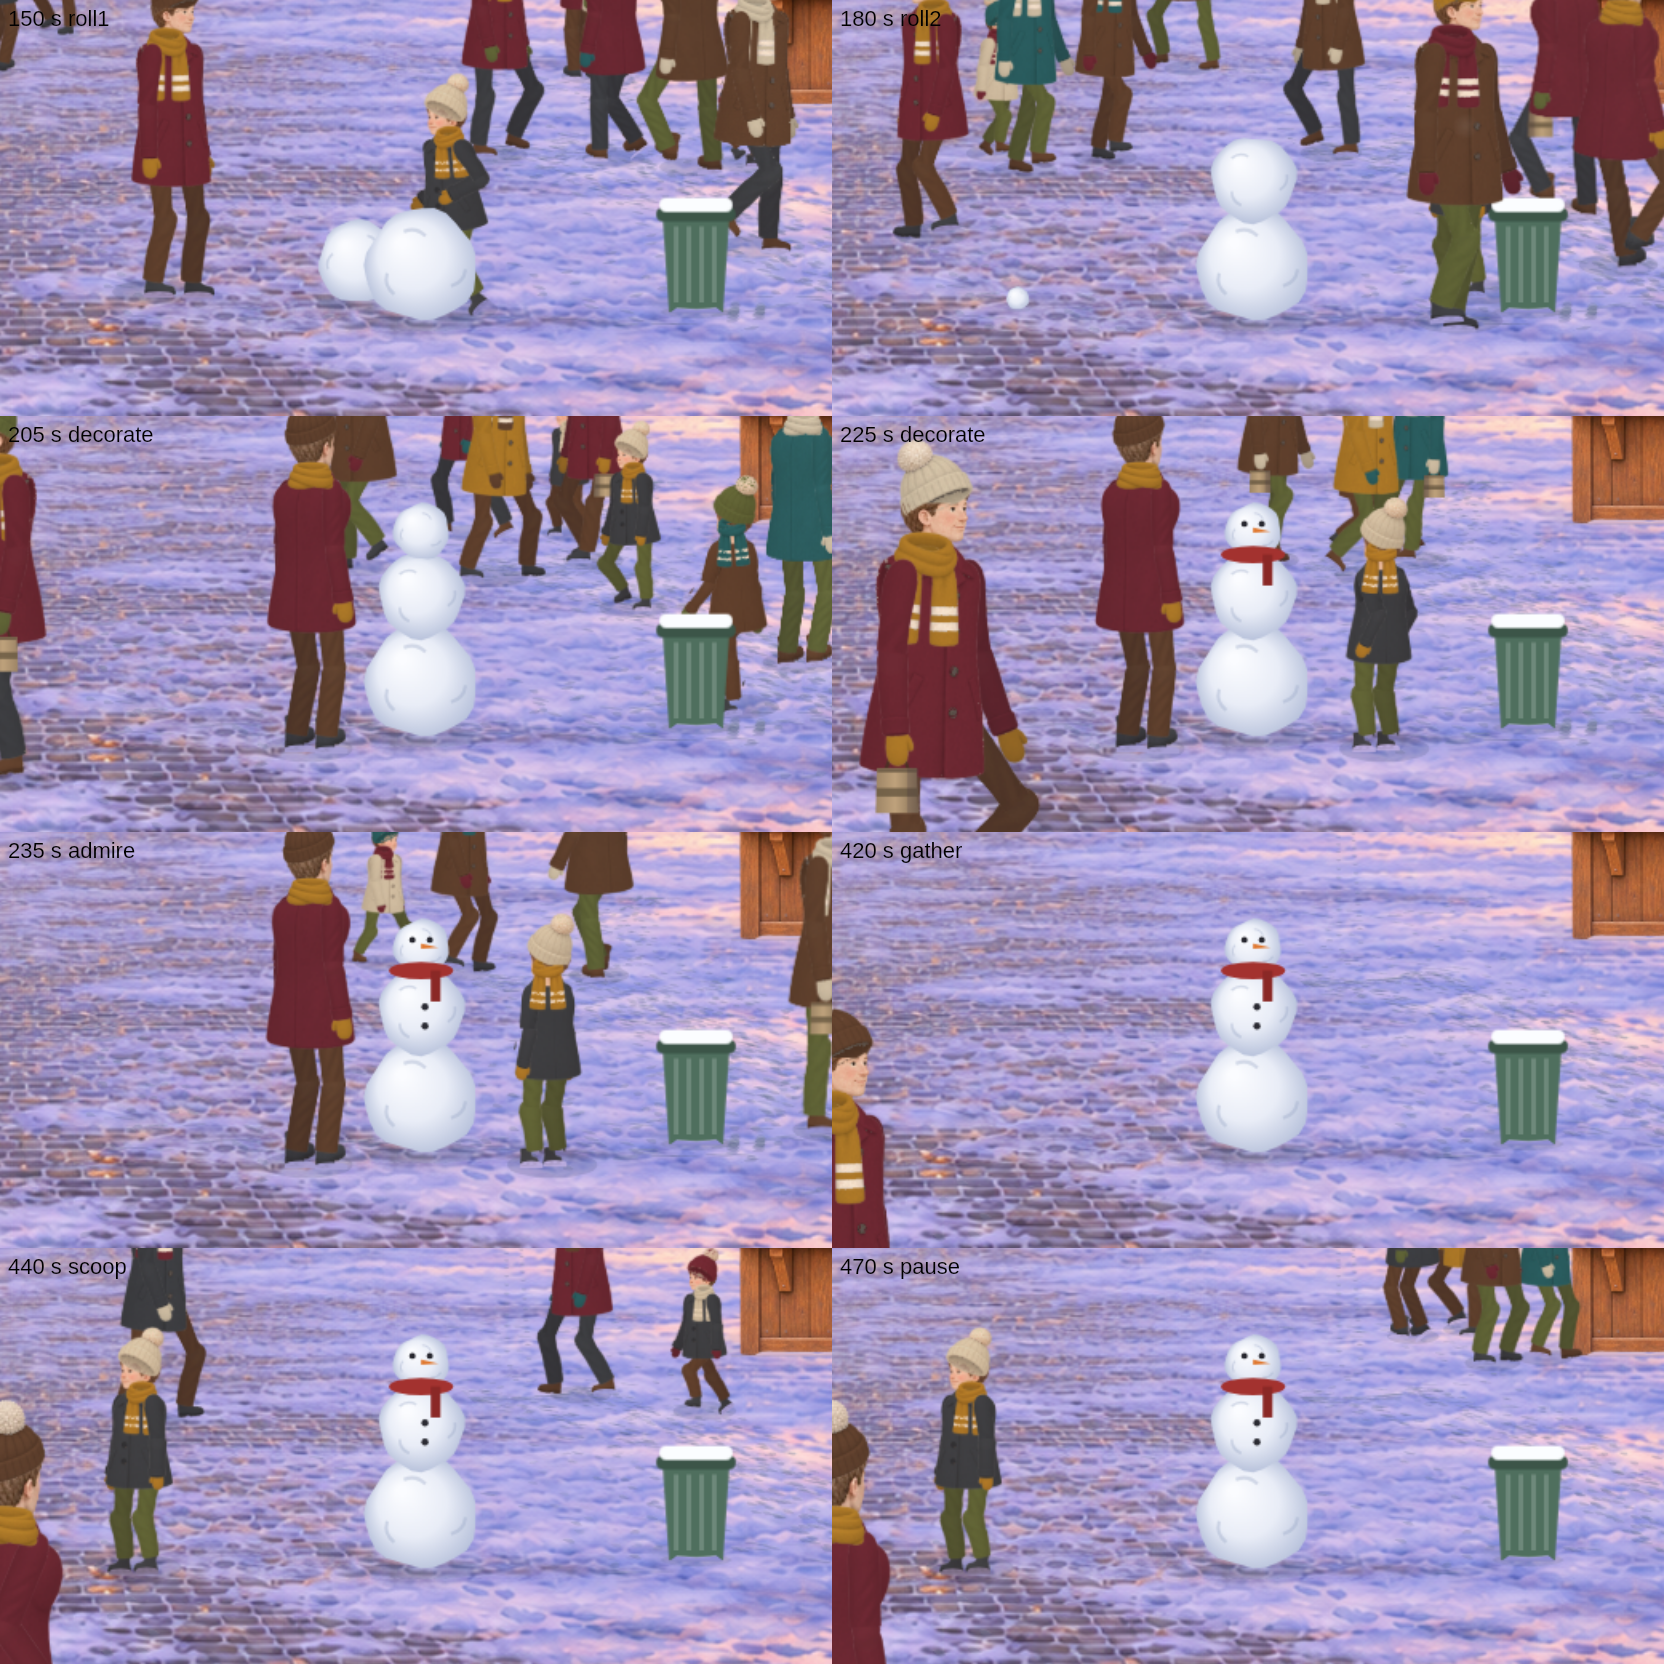
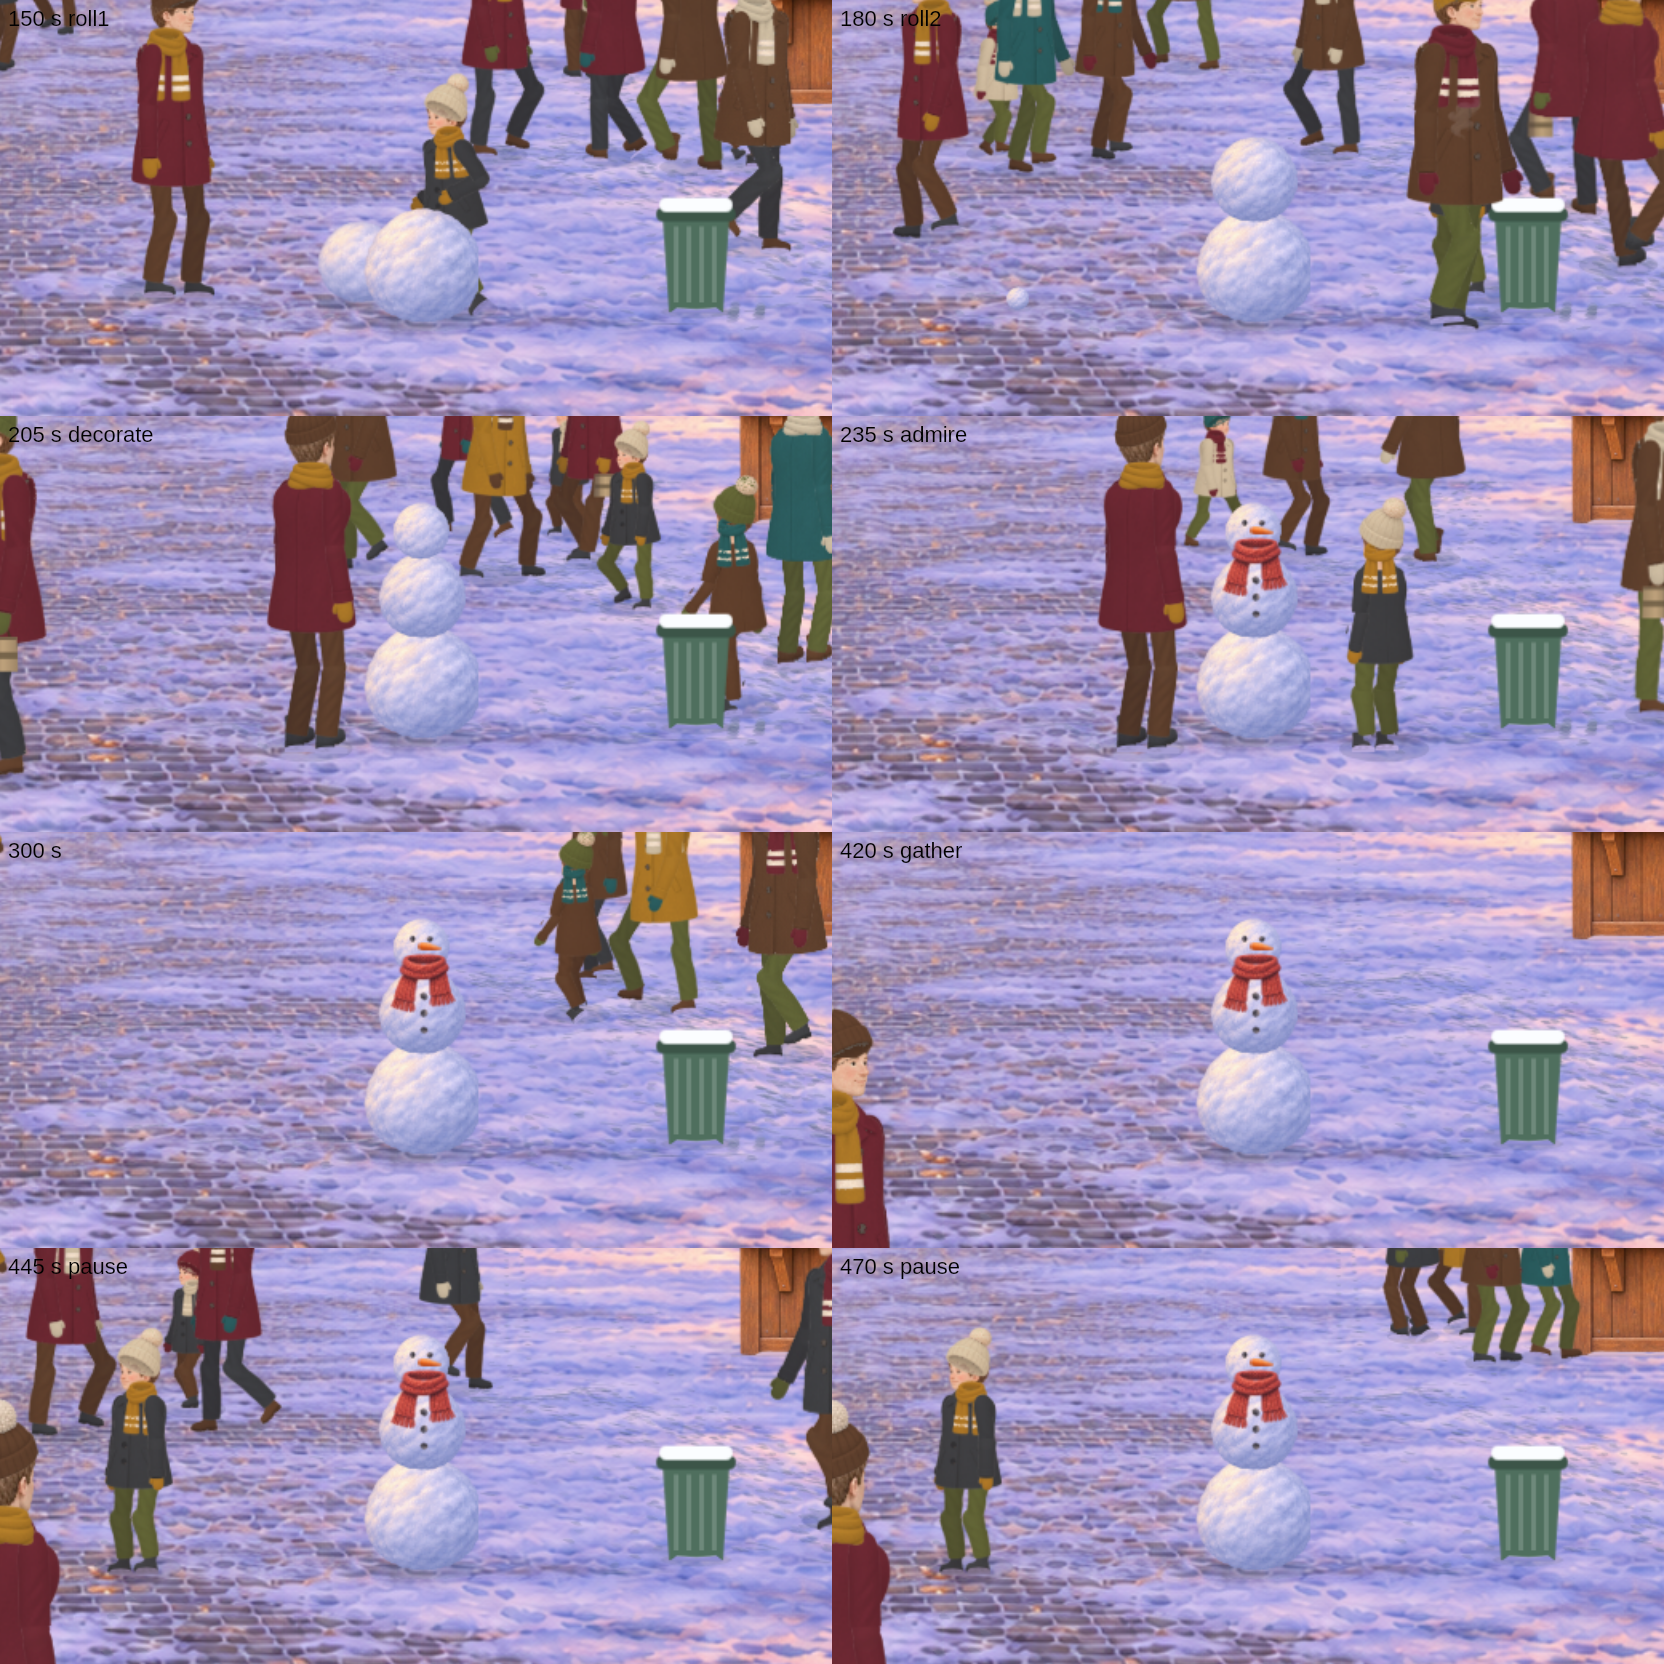
Liberec: malované sprity sněhuláka, koulí a páry
- vyčištěné sprity (jen hlavní objekt; pára bez poloprůhledného pozadí)
  v grafika/ziva-pozadi/sprites_clean
- renderer používá assety sprite_* (koule, spodní/prostřední koule, hlava,
  uhlíky, mrkev, šála, 6 obláčků páry); bez nich zůstává kresba kódem

Claude-Session: https://claude.ai/code/session_01RUV9wyQ56oLHxGhBhsFU8U

diff --git a/src/core/render/sceneRenderer.ts b/src/core/render/sceneRenderer.ts
@@ -356,6 +356,7 @@ export function drawScene(ctx: Ctx, project: ProjectFile, sim: Simulation | null
   const worldObjs = visible.filter(({ o }) => o.layer === 'world').map(({ o }) => o);
   drawGroundIntegration(ctx, project, worldObjs, assets, opts.time);
   litCtx = { objects: worldObjs.filter((o) => o.integration), assets, t: opts.time };
+  spriteSrc = images;
 
   // Světová vrstva: řazení podle bodu kontaktu se zemí (+ ruční úprava pořadí).
   type Item = { key: number; tie: number; draw: () => void };
@@ -413,7 +414,17 @@ export function drawScene(ctx: Ctx, project: ProjectFile, sim: Simulation | null
  * Koule sněhu (malovaná): mírně nepravidelný obrys, chladný stín vpravo dole, světlejší horní
  * plocha, pár stop válení (otáčí se podle dráhy), úzký kontaktní stín na zemi.
  */
-function drawSnowBall(ctx: Ctx, cam: ReturnType<typeof cameraFor>, X: number, Z: number, H: number, r: number, rot: number, seed: number, shadow: boolean) {
+/** Malované sprity z projektu (assety s id `sprite_*`, např. ze sady „Živá pozadí“); chybí = kresba kódem. */
+let spriteSrc: AssetImages | null = null;
+const sprite = (name: string) => (spriteSrc?.get(`sprite_${name}`) ?? null) as (CanvasImageSource & { width: number; height: number }) | null;
+/** Sprite vycentrovaný na bod, s průměrem `d` px (podle šířky), volitelně otočený. */
+function drawSpriteAt(ctx: Ctx, img: CanvasImageSource & { width: number; height: number }, x: number, y: number, d: number, rot = 0, flip = false) {
+  const w = d, h = (d * img.height) / img.width;
+  ctx.save(); ctx.translate(x, y); if (rot) ctx.rotate(rot); if (flip) ctx.scale(-1, 1);
+  ctx.drawImage(img, -w / 2, -h / 2, w, h); ctx.restore();
+}
+
+function drawSnowBall(ctx: Ctx, cam: ReturnType<typeof cameraFor>, X: number, Z: number, H: number, r: number, rot: number, seed: number, shadow: boolean, spriteName = 'snowball') {
   const c = toScreen(cam, { X, Z }, H), R = (r * cam.f) / Math.max(1e-3, Z);
   if (R < 0.4) return;
   if (shadow) {
@@ -421,6 +432,8 @@ function drawSnowBall(ctx: Ctx, cam: ReturnType<typeof cameraFor>, X: number, Z:
     ctx.save(); ctx.fillStyle = 'rgba(98,113,150,0.22)';
     ctx.beginPath(); ctx.ellipse(g0.x + R * 0.1, g0.y, R * 1.05, Math.max(0.8, R * 0.18), 0, 0, Math.PI * 2); ctx.fill(); ctx.restore();
   }
+  const img = sprite(spriteName) ?? sprite('snowball');
+  if (img) { drawSpriteAt(ctx, img, c.x, c.y, 2.06 * R, rot); return; } // malovaná koule (okraj sprite je měkký)
   ctx.save();
   ctx.beginPath();
   for (let i = 0; i <= 28; i++) {
@@ -448,10 +461,12 @@ function drawSnowman(ctx: Ctx, cam: ReturnType<typeof cameraFor>, o: NonNullable
   const P = toWorld(cam, { x: o.x, y: o.y });
   const [r0, r1, r2] = o.radii;
   const h0 = r0, h1 = 2 * r0 * 0.92 + r1 * 0.92, h2 = 2 * r0 * 0.92 + 2 * r1 * 0.92 + r2 * 0.9;
-  drawSnowBall(ctx, cam, P.X, P.Z, h0, r0, 0.4, o.seed % 97, true);
-  if (r1) drawSnowBall(ctx, cam, P.X, P.Z - 0.01, h1, r1, 1.3, (o.seed % 97) + 3, false);
+  drawSnowBall(ctx, cam, P.X, P.Z, h0, r0, 0, o.seed % 97, true, 'snowman_base');
+  if (r1) drawSnowBall(ctx, cam, P.X, P.Z - 0.01, h1, r1, 0, (o.seed % 97) + 3, false, 'snowman_middle');
   const px = (m: number) => (m * cam.f) / P.Z;
   const at = (H: number, dx = 0) => { const q = toScreen(cam, { X: P.X, Z: P.Z }, H); return { x: q.x + px(dx), y: q.y }; };
+  const coal = (k: number) => sprite(`coal_${k % 5}`);
+  if (coal(0) && sprite('snowman_head')) { drawSnowmanSprites(ctx, o, at, px, coal, h1, h2, r1, r2); return; }
   if (o.decorations.includes('buttons') && r1) {
     ctx.fillStyle = '#2b2b33';
     for (const k of [-0.35, 0.1]) { const q = at(h1 + r1 * k, 0.02); ctx.beginPath(); ctx.arc(q.x, q.y, Math.max(0.5, px(0.018)), 0, Math.PI * 2); ctx.fill(); }
@@ -474,6 +489,19 @@ function drawSnowman(ctx: Ctx, cam: ReturnType<typeof cameraFor>, o: NonNullable
   }
 }
 
+/** Sněhulák z malovaných spritů: hlava, uhlíky (oči, knoflíky), mrkev, pletená šála. */
+function drawSnowmanSprites(ctx: Ctx, o: NonNullable<SimState['runtimeObjects']>[number], at: (H: number, dx?: number) => { x: number; y: number }, px: (m: number) => number,
+  coal: (k: number) => (CanvasImageSource & { width: number; height: number }) | null, h1: number, h2: number, r1: number, r2: number) {
+  const dot = (H: number, dx: number, k: number, size: number) => { const q = at(H, dx); drawSpriteAt(ctx, coal(k)!, q.x, q.y, Math.max(1.2, px(size)), (k * 1.3) % 6.28); };
+  if (o.decorations.includes('buttons') && r1) for (const [i, kH] of [[0, 0.35], [1, -0.05], [2, -0.45]] as const) dot(h1 + r1 * kH, 0.015, i + o.seed, 0.04);
+  if (!r2) return;
+  const head = sprite('snowman_head')!, q0 = at(h2);
+  drawSpriteAt(ctx, head, q0.x, q0.y, 2.06 * px(r2));
+  if (o.decorations.includes('scarf') && sprite('scarf')) { const q = at(h2 - r2 * 0.95); drawSpriteAt(ctx, sprite('scarf')!, q.x + px(0.01), q.y + px(r2 * 0.22), px(r2 * 1.95)); }
+  if (o.decorations.includes('eyes')) { dot(h2 + r2 * 0.28, -0.045, o.seed + 3, 0.032); dot(h2 + r2 * 0.28, 0.045, o.seed + 4, 0.032); }
+  if (o.decorations.includes('nose') && sprite('carrot')) { const q = at(h2 + r2 * 0.02); const c = sprite('carrot')!; const w = px(0.12); ctx.drawImage(c, q.x - w * 0.12, q.y - (w * c.height) / c.width / 2, w, (w * c.height) / c.width); }
+}
+
 /** Pára a kouř: měkké průsvitné obláčky (malovaný dojem, bez ostrých okrajů). */
 function drawParticles(ctx: Ctx, project: ProjectFile, ps: NonNullable<Simulation['state']['particles']>, t: number) {
   const env = project.scene.environment!;
@@ -481,6 +509,14 @@ function drawParticles(ctx: Ctx, project: ProjectFile, ps: NonNullable<Simulatio
   for (const p of ps) {
     const q = particleAt(p, t, project.scene.snowfall.wind, project.seed, env.gusts);
     if (!q || q.a < 0.004) continue;
+    const st = p.kind !== 'snowPuff' ? sprite(`steam_${(p.seed % 6) + 1}`) : null;
+    if (st) {
+      // malovaný obláček páry: nízká celková průhlednost, pomalý růst (sprite nikdy nezesilovat)
+      ctx.globalAlpha = Math.min(0.55, q.a * (p.kind === 'smoke' ? 1.4 : 1.8));
+      drawSpriteAt(ctx, st, q.x, q.y - q.r * 0.6, q.r * 2.6, ((p.seed % 7) - 3) * 0.08);
+      ctx.globalAlpha = 1;
+      continue;
+    }
     const col = p.kind === 'smoke' ? '214,216,228' : '248,248,252';
     const g = ctx.createRadialGradient(q.x, q.y, 0, q.x, q.y, q.r);
     g.addColorStop(0, `rgba(${col},${q.a.toFixed(3)})`); g.addColorStop(0.6, `rgba(${col},${(q.a * 0.45).toFixed(3)})`); g.addColorStop(1, `rgba(${col},0)`);

diff --git a/scripts/generate-liberec-demo.ts b/scripts/generate-liberec-demo.ts
@@ -124,6 +124,12 @@ export async function generateLiberec(dir: string): Promise<ProjectFile> {
     }
     p.objects.push(so);
   }
+  // malované sprity sněhuláka, koulí a páry (renderer je najde podle id `sprite_*`)
+  for (const n of ['snowman_base', 'snowman_middle', 'snowman_head', 'snowball', 'carrot', 'scarf', 'coal_0', 'coal_1', 'coal_2', 'coal_3', 'coal_4', 'steam_1', 'steam_2', 'steam_3', 'steam_4', 'steam_5', 'steam_6']) {
+    const a = await importAssetFile(dir, path.join(G, 'sprites_clean', `${n}.png`), 'image');
+    a.id = `sprite_${n}`; a.name = `Sprite – ${n}`; a.anchor = { x: 0.5, y: 0.5 }; a.pixelScale = 1;
+    p.assets.push(a);
+  }
   // koše (nová grafika je neobsahuje): u stolků vlevo a vpravo vpředu
   const binLid = p.assets.find((a) => a.id === 'builtin_kos_vika')!, bin = p.assets.find((a) => a.id === 'builtin_kos')!;
   binLid.shape = { bodyU0: 0.167, bodyU1: 0.824, depthM: 0.45 }; bin.shape = { bodyU0: 0.185, bodyU1: 0.806, depthM: 0.45 };
